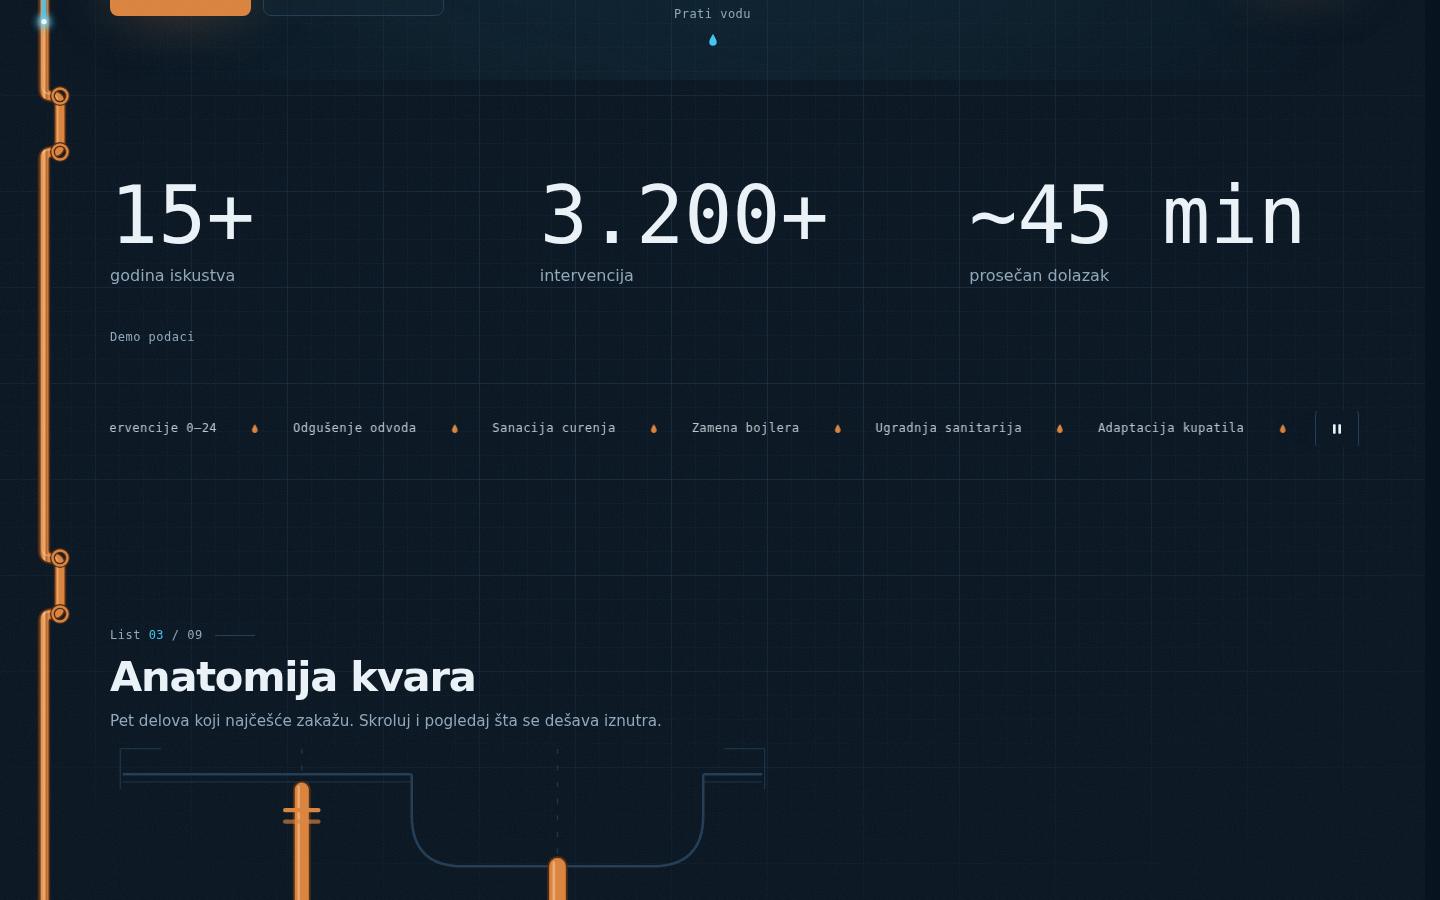
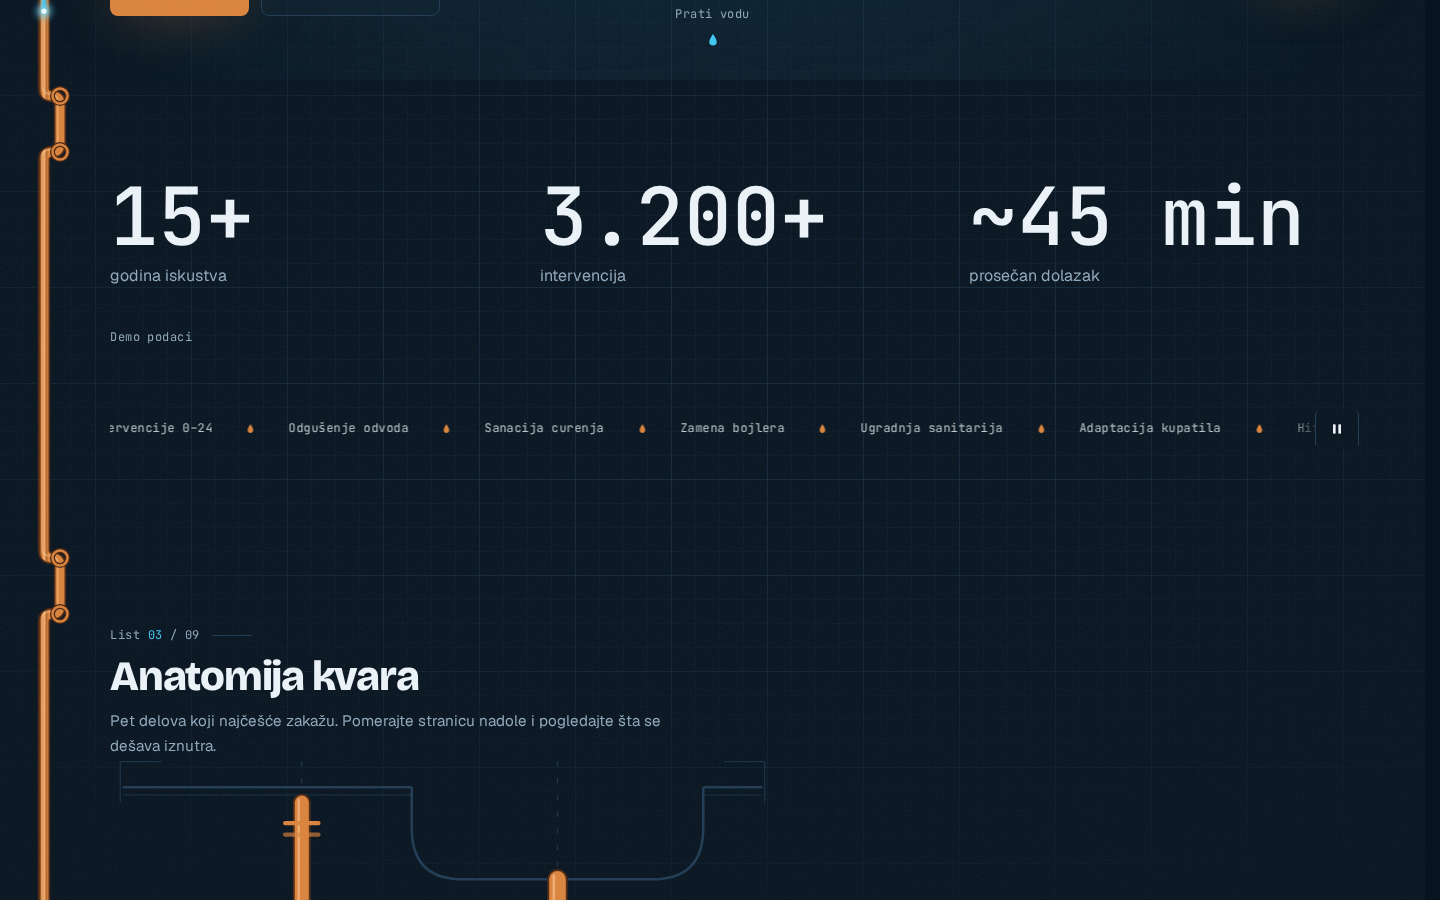
Review fixes: glass backdrop-filter in production CSS, nav shows on focusin, focusable before/after handle, wordmark tap size, copy and perf nits
Claude-Session: https://claude.ai/code/session_01TeAPS7MGBLZwg3vjRc9RXa

diff --git a/src/components/sections/Services.tsx b/src/components/sections/Services.tsx
@@ -113,6 +113,24 @@ export function Services() {
       card.dataset.active = 'false'
     }
 
+    // Pointer moves arrive faster than frames; measure and write at most once per frame.
+    let frame = 0
+    let pending: { card: HTMLElement; x: number; y: number } | null = null
+    const apply = () => {
+      frame = 0
+      if (!pending) return
+      const { card, x, y } = pending
+      pending = null
+      const rect = card.getBoundingClientRect()
+      const relX = (x - rect.left) / rect.width
+      const relY = (y - rect.top) / rect.height
+      card.style.setProperty('--mx', `${relX * 100}%`)
+      card.style.setProperty('--my', `${relY * 100}%`)
+      card.dataset.active = 'true'
+      const q = quickies.get(card)
+      q?.ry((relX - 0.5) * 2 * MAX_TILT)
+      q?.rx((0.5 - relY) * 2 * MAX_TILT)
+    }
     const onMove = (e: PointerEvent) => {
       const target = e.target as HTMLElement
       const card = target.closest<HTMLElement>('[data-card]')
@@ -121,19 +139,13 @@ export function Services() {
         active = card
       }
       if (!card) return
-      const rect = card.getBoundingClientRect()
-      const relX = (e.clientX - rect.left) / rect.width
-      const relY = (e.clientY - rect.top) / rect.height
-      card.style.setProperty('--mx', `${relX * 100}%`)
-      card.style.setProperty('--my', `${relY * 100}%`)
-      card.dataset.active = 'true'
-      const q = quickies.get(card)
-      q?.ry((relX - 0.5) * 2 * MAX_TILT)
-      q?.rx((0.5 - relY) * 2 * MAX_TILT)
+      pending = { card, x: e.clientX, y: e.clientY }
+      if (!frame) frame = requestAnimationFrame(apply)
     }
     const onLeave = () => {
       if (active) reset(active)
       active = null
+      pending = null
     }
 
     grid.addEventListener('pointermove', onMove)
@@ -141,6 +153,7 @@ export function Services() {
     return () => {
       grid.removeEventListener('pointermove', onMove)
       grid.removeEventListener('pointerleave', onLeave)
+      if (frame) cancelAnimationFrame(frame)
     }
   }, [reducedMotion, finePointer])
 

diff --git a/src/components/Nav.tsx b/src/components/Nav.tsx
@@ -138,6 +138,13 @@ export function Nav() {
     gsap.set(header, { y: 0 })
     let lastY = window.scrollY
     let hidden = false
+    const show = () => {
+      if (!hidden) return
+      hidden = false
+      gsap.to(header, { y: 0, duration: 0.35, ease: 'power2.out', overwrite: 'auto' })
+    }
+    // Keyboard users tabbing into a hidden header get it back at once, without any scroll event.
+    header.addEventListener('focusin', show)
 
     const trigger = ScrollTrigger.create({
       start: 0,
@@ -168,7 +175,10 @@ export function Nav() {
       },
     })
 
-    return () => trigger.kill()
+    return () => {
+      header.removeEventListener('focusin', show)
+      trigger.kill()
+    }
   }, [reducedMotion])
 
   // Never let the header stay hidden while the mobile menu is open.
@@ -199,7 +209,7 @@ export function Nav() {
         className={cn('fixed inset-x-0 top-0 z-50 h-[var(--nav-height)]', scrolled ? 'glass' : 'bg-transparent')}
       >
         <div className="container-x flex h-full items-center justify-between">
-          <a href="#vrh" className="flex items-center gap-2 font-display text-2xl font-extrabold text-text">
+          <a href="#vrh" className="flex min-h-11 items-center gap-2 font-display text-2xl font-extrabold text-text">
             <Drop className="h-4 w-4 text-copper" />
             {site.wordmark}
           </a>

diff --git a/src/components/sections/BeforeAfter.tsx b/src/components/sections/BeforeAfter.tsx
@@ -33,12 +33,12 @@ export function BeforeAfter() {
     if (reducedMotion) return
     const el = wrapRef.current
     if (!el) return
-    gsap.set(el, { autoAlpha: 0, y: 24 })
+    gsap.set(el, { opacity: 0, y: 24 })
     const trigger = ScrollTrigger.create({
       trigger: el,
       start: 'top 85%',
       once: true,
-      onEnter: () => gsap.to(el, { autoAlpha: 1, y: 0, duration: 0.8, ease: 'power3.out' }),
+      onEnter: () => gsap.to(el, { opacity: 1, y: 0, duration: 0.8, ease: 'power3.out' }),
     })
     return () => trigger.kill()
   }, [reducedMotion])

diff --git a/src/config/site.ts b/src/config/site.ts
@@ -140,7 +140,7 @@ export const site = {
 
   anatomy: {
     title: 'Anatomija kvara',
-    intro: 'Pet delova koji najčešće zakažu. Skroluj i pogledaj šta se dešava iznutra.',
+    intro: 'Pet delova koji najčešće zakažu. Pomerajte stranicu nadole i pogledajte šta se dešava iznutra.',
     finale: 'Sastavljeno. Bez kapi.',
     labels: { problem: 'Problem', symptom: 'Simptom', fix: 'Šta Mile radi' },
     steps: [

diff --git a/src/index.css b/src/index.css
@@ -193,7 +193,6 @@
     background: rgb(14 34 51 / 0.72);
     border: 1px solid rgb(30 58 82 / 0.9);
     backdrop-filter: blur(18px) saturate(1.2);
-    -webkit-backdrop-filter: blur(18px) saturate(1.2);
   }
 
   .panel {

diff --git a/reports/CHECKLIST.md b/reports/CHECKLIST.md
@@ -22,7 +22,7 @@ Legenda: ✅ provereno · ⚠ provereno uz napomenu · ❌ nije moglo da se p
 |---|---|---|
 | Tačne boje (#07131F, #0E2233, #1E3A52, #EAF2F8, #8FA7BA, #D9823B, #3FC5F0) | ✅ | `src/index.css` `@theme` tokeni |
 | Mreža tehničkog crteža, filmsko zrno, meko cijan svetlo | ✅ | `index.css` (`body::before`, `body::after`, `.glow-water`); screenshot-ovi |
-| Fontovi Bricolage Grotesque 700–800, Instrument Serif italic, Geist, JetBrains Mono, latin-ext, swap | ✅ | `index.html` (Google Fonts, `display=swap`); e2e `document.fonts.check` sa „ČćŠžĐ“ za sve četiri familije |
+| Fontovi Bricolage Grotesque 700–800, Instrument Serif italic, Geist, JetBrains Mono, latin-ext, swap | ⚠ | `index.html` (Google Fonts preload→stylesheet, `display=swap`); e2e `document.fonts.check` sa „ČćŠžĐ“ prošao u jednom punom prolazu i dijakritike su vidljive na screenshot-ovima; u drugim prolazima sandbox proxy blokira fonts.googleapis.com, pa provera pada iz razloga okruženja |
 | `clamp` tipografija do ~9rem, čitljivi naslovi na 360px | ✅ | `.display-xl` = clamp(3rem, 11.5vw, 9rem); screenshot `final/hero-360.png` |
 | Kursor: klijent odlučio da ga ne bude | ✅ | uklonjeno iz `App.tsx` |
 
@@ -41,7 +41,7 @@ Legenda: ✅ provereno · ⚠ provereno uz napomenu · ❌ nije moglo da se p
 |---|---|---|
 | Loader jednom po sesiji, ≤1,2s, preskočen u RM, ne čeka mrežu | ✅ | `Loader.tsx` (0,9s timeline + 1,2s tvrdi limit, sessionStorage); statični shell + preskakanje pri kasnom učitavanju (`intro.ts`), provera `scripts/shell-check.mjs` |
 | Nav: sticky staklo, sakrivanje/pojavljivanje bez treperenja, ne skriva se pri tastaturi | ✅ | `Nav.tsx` (ScrollTrigger direction + prag 8px, `header.contains(activeElement)`) |
-| Mobilni meni: aria-expanded, fokus, Escape, vraćanje fokusa, zatvaranje na link, zaključavanje skrola | ✅ | e2e na 390 i 360: otvaranje, fokus u meniju, Escape + vraćanje fokusa, link zatvara i skroluje, skrol otključan |
+| Mobilni meni: aria-expanded, fokus, Escape, vraćanje fokusa, zatvaranje na link, zaključavanje skrola | ✅ | e2e na 390 i 360: otvaranje, fokus u meniju, Escape + vraćanje fokusa, link zatvara i skroluje, skrol otključan; dugme za zatvaranje ostaje vidljivo iznad panela (`final/menu-open-390.png`) |
 | Hero: tačan tekst, maskirano otkrivanje reči, „Mile rešava.“ serif italic, dva funkcionalna dugmeta | ✅ | e2e „h1 text“, „punchline“, „hero CTAs“, „Pošalji upit reaches contact“ |
 | Poverenje: count-up iz konfiguracije, demo oznaka, marquee bez trzaja, bez pomeranja rasporeda | ✅ | `Trust.tsx` (tabular-nums + ch širina); screenshot `final/trust-1440.png` |
 | Anatomija: 5 koraka, redosled, razdvajanje, glow, kartica, brojač, tačke, finale, unazad | ✅ | e2e „counter runs 01→05 and back“ (01 02 04 05 05 05 04 01); screenshot-ovi `final/anatomy-*.png` |
@@ -63,8 +63,21 @@ Legenda: ✅ provereno · ⚠ provereno uz napomenu · ❌ nije moglo da se p
 | Jedan H1, link za preskakanje, vidljiv fokus, kontrast AA, mete 44px | ✅ | e2e „single h1“, „first Tab lands on skip link“; Lighthouse pristupačnost 100; dugmad `min-h-11` |
 | Bez horizontalnog overflow-a na 360px | ✅ | e2e „no horizontal overflow“ na 360, 390, 768; ture na svim širinama overflow=0 |
 | Bez console grešaka i nedostajućih resursa | ⚠ | e2e bez grešaka sajta; jedini zapisi su padovi Google Fonts zahteva kroz sandbox proxy (okruženje, ne sajt) |
-| Lighthouse mobile ≥ 85 na produkcionom build-u | ✅ | `npm run lighthouse` na `vite preview`: performanse 94, pristupačnost 100, najbolje prakse 100, SEO 100 (FCP 1,7s, LCP 1,7s, TBT 210ms, CLS 0,009); simulirano 4G/CPU u headless Chromium-u u sandbox-u, nije garancija za svaki uređaj |
-| Nezavisni pregled | ✅ | workflow: 4 recenzenta (brief, motion, pristupačnost, vizuelno) + adversarijalna verifikacija; potvrđeni nalazi ispravljeni (vidi dole) |
+| Lighthouse mobile ≥ 85 na produkcionom build-u | ✅ | `npm run lighthouse` na `vite preview`, poslednji prolaz posle svih popravki: performanse 92, pristupačnost 100, najbolje prakse 100, SEO 100 (FCP 1,7s, LCP 1,7s, TBT 290ms, CLS 0,009); prethodni prolazi 93–94; simulirano 4G/CPU u headless Chromium-u u sandbox-u, nije garancija za svaki uređaj |
+| Nezavisni pregled | ✅ | workflow: 4 recenzenta (brief, motion, pristupačnost, vizuelno) + 4 adversarijalna verifikatora; 8 potvrđenih nalaza, svi ispravljeni (vidi dole) |
+
+## Nalazi nezavisnog pregleda (svi ispravljeni)
+| Nalaz | Težina | Ispravka |
+|---|---|---|
+| Produkcioni CSS gubio `backdrop-filter` (ostajao samo `-webkit-` prefiks koji Chrome ne podržava) → staklena navigacija bez zamućenja | visoka | `index.css`: samo neprefiksovana deklaracija, minifikator sam dodaje prefiks; proverena vrednost `blur(18px) saturate(1.2)` u produkciji |
+| Navigacija ostaje skrivena kad se fokus tastaturom unese u nju bez skrola | visoka | `Nav.tsx`: `focusin` slušalac vraća header; provereno (y −72 → 0) |
+| Ručica pre/posle klizača `visibility:hidden` do otkrivanja → nije u Tab redosledu | visoka | `BeforeAfter.tsx`: otkrivanje samo preko `opacity`; provereno da je fokusabilna pre skrola |
+| Wordmark link 32px visok na mobilnom | srednja | `Nav.tsx`: `min-h-11` (44px) |
+| Anglicizam „Skroluj“ u uvodu anatomije | srednja | `site.ts`: „Pomerajte stranicu nadole i pogledajte…“ |
+| README pominje nepostojeći kursor | niska | uklonjeno |
+| Tilt/spotlight kartica meri `getBoundingClientRect` na svaki pointermove | niska | `Services.tsx`: jedno merenje po frejmu (rAF) |
+| Glava vode zove `getPointAtLength` na svaki scrub tick | niska | izmereno ~0,27ms po pozivu; ostavljeno, zanemarljivo |
+| Marquee se ne pauzira na fokus | odbačeno | u trakama nema fokusabilnih elemenata; postoji dugme pauze |
 
 ## Nije izvršeno u ovom okruženju
 | Stavka | Razlog |

diff --git a/README.md b/README.md
@@ -56,7 +56,7 @@ npx vercel --prod   # produkcija
 ```
 src/config/site.ts        poslovni podaci i tekstovi (jedini izvor istine)
 src/lib/                  scroll sistem (Lenis + ScrollTrigger), GSAP hook, media upiti
-src/components/           navigacija, cev, loader, kursor, UI primitivi
+src/components/           navigacija, cev, loader, UI primitivi
 src/components/sections/  sekcije stranice, redom kao na sajtu
 src/components/svg/       autorske SVG ilustracije i ikone
 scripts/                  screenshot, e2e i Lighthouse pomoćni skriptovi
